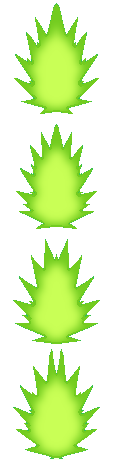
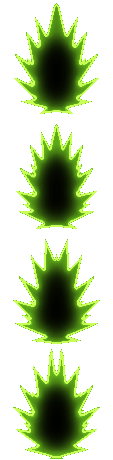
aur ass

diff --git a/Projectiles/Auras/FalseUIAuraProj.cs b/Projectiles/Auras/FalseUIAuraProj.cs
@@ -31,25 +31,6 @@ namespace DBZMOD.Projectiles.Auras
 			AuraOffset.Y = -10;
 
         }
-		public override bool PreDraw(SpriteBatch spriteBatch, Color lightColor)
-        {
-            Vector2 drawOrigin = new Vector2(Main.projectileTexture[projectile.type].Width * 0.5f, projectile.height * 0.5f);
-            for (int k = 0; k < projectile.oldPos.Length; k++)
-            {
-                Vector2 drawPos = projectile.oldPos[k] - Main.screenPosition + drawOrigin + new Vector2(0f, projectile.gfxOffY);
-                Color color = projectile.GetAlpha(lightColor) * ((float)(projectile.oldPos.Length - k) / (float)projectile.oldPos.Length);
-                spriteBatch.Draw(Main.projectileTexture[projectile.type], drawPos, null, color, projectile.rotation, drawOrigin, projectile.scale, SpriteEffects.None, 0f);
-            }
-            return true;
-        }
-
-        public override void PostDraw(SpriteBatch spriteBatch, Color lightColor)
-        {
-            spriteBatch.End();
-            spriteBatch.Begin(SpriteSortMode.Texture, BlendState.Additive); //draw code here
-            spriteBatch.End();
-            spriteBatch.Begin();
-        }
 
         public override void AI()
         {
@@ -88,6 +69,18 @@ namespace DBZMOD.Projectiles.Auras
                 dust.fadeIn = 0.7894737f;
             }
             base.AI();
+        }
+        public override bool PreDraw(SpriteBatch spriteBatch, Color lightColor)
+        {
+            spriteBatch.End();
+            spriteBatch.Begin(SpriteSortMode.Texture, BlendState.Additive);
+            return base.PreDraw(spriteBatch, lightColor);
+        }
+
+        public override void PostDraw(SpriteBatch spriteBatch, Color lightColor)
+        {
+            spriteBatch.End();
+            spriteBatch.Begin();
         }
     }
 }

diff --git a/Projectiles/Auras/LSSJAuraProj.cs b/Projectiles/Auras/LSSJAuraProj.cs
@@ -65,5 +65,17 @@ namespace DBZMOD.Projectiles.Auras
             }
             base.AI();
         }
+        public override bool PreDraw(SpriteBatch spriteBatch, Color lightColor)
+        {
+            spriteBatch.End();
+            spriteBatch.Begin(SpriteSortMode.Texture, BlendState.Additive);
+            return base.PreDraw(spriteBatch, lightColor);
+        }
+
+        public override void PostDraw(SpriteBatch spriteBatch, Color lightColor)
+        {
+            spriteBatch.End();
+            spriteBatch.Begin();
+        }
     }
 }

diff --git a/Projectiles/Auras/SSJ1AuraProj.cs b/Projectiles/Auras/SSJ1AuraProj.cs
@@ -79,5 +79,17 @@ namespace DBZMOD.Projectiles.Auras
 
             base.AI();
         }
+        public override bool PreDraw(SpriteBatch spriteBatch, Color lightColor)
+        {
+            spriteBatch.End();
+            spriteBatch.Begin(SpriteSortMode.Texture, BlendState.Additive);
+            return base.PreDraw(spriteBatch, lightColor);
+        }
+
+        public override void PostDraw(SpriteBatch spriteBatch, Color lightColor)
+        {
+            spriteBatch.End();
+            spriteBatch.Begin();
+        }
     }
 }

diff --git a/Projectiles/Auras/BaseAuraProj.cs b/Projectiles/Auras/BaseAuraProj.cs
@@ -21,7 +21,6 @@ namespace DBZMOD.Projectiles.Auras
             projectile.width = 113;
             projectile.height = 115;
             projectile.aiStyle = 0;
-            projectile.alpha = 70;
             projectile.timeLeft = 10;
             projectile.friendly = true;
             projectile.tileCollide = false;

diff --git a/Projectiles/Auras/AuraProjectile.cs b/Projectiles/Auras/AuraProjectile.cs
@@ -59,9 +59,6 @@ namespace Projectiles.Auras
             {
                 projectile.frame = 0;
             }
-
-            // added so that projectile alpha is always half
-            projectile.alpha = 50;
             
             projectile.scale = 1.0f + ScaleExtra;
 
